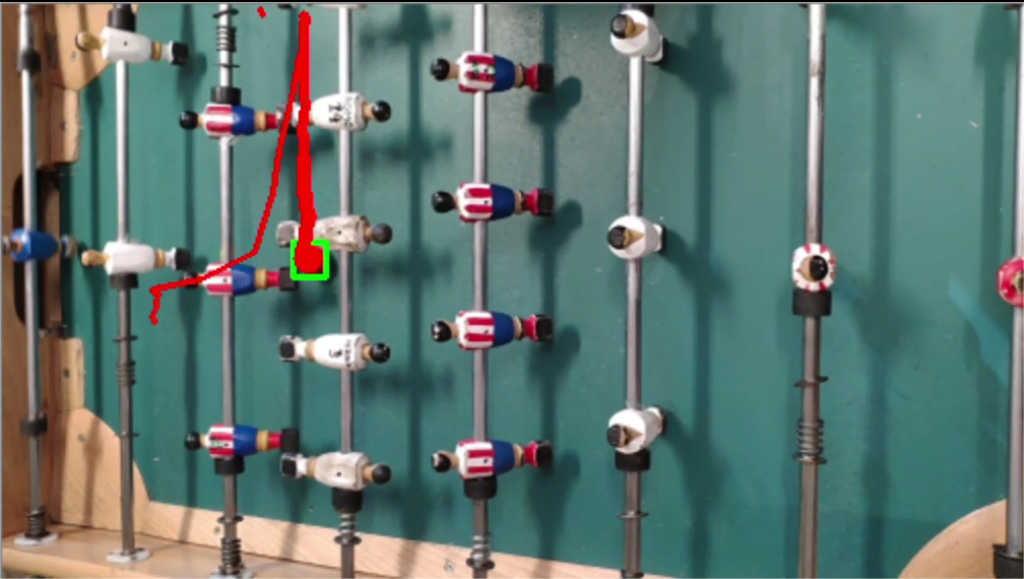
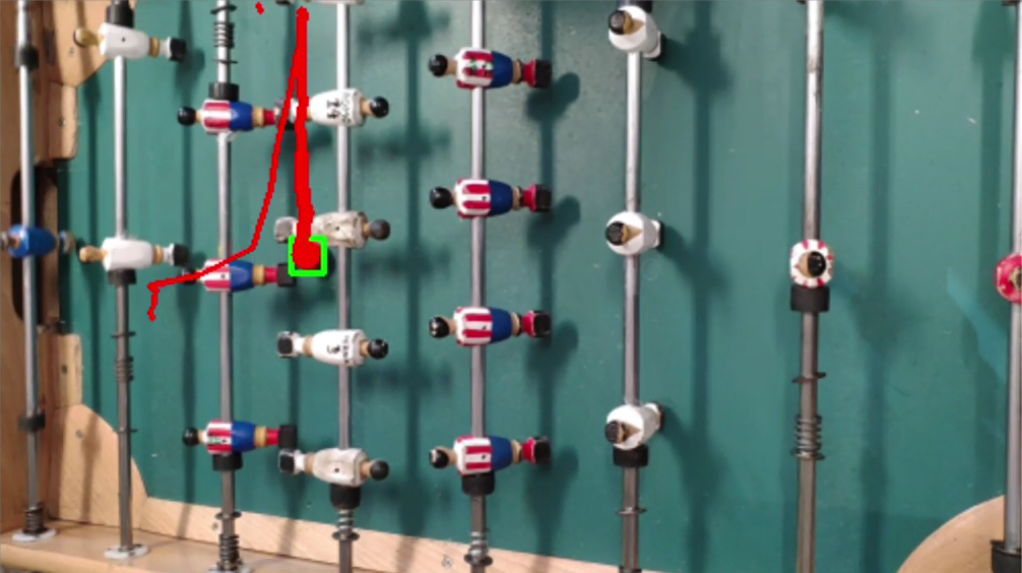
Entrada Fut openCV acabada

diff --git a/_posts/2018-10-13-FUTracker.md b/_posts/2018-10-13-FUTracker.md
@@ -11,5 +11,184 @@ image: /assets/img/posts/2018-10-13-FUTracker/2.png
 
 ---
 
-![Distance](/assets/img/posts/2018-10-13-FUTracker/3.jpg)
+The new academic course already began - and, with it, the habit of playing foosball for hours everyday.
 
+One day, I wondered whether it would be possible to *upgrade* our foosball: such a traditional game has remained exactly the same for years, so it would be cool to add it some new features. I first thought about adding some sensors to it, but ended up deciding that using some image recognition software would be the most versatile option. Moreover, I had never worked with any video processing software, so I saw in this project a good opportunity to learn something new.
+
+## The idea
+
+As a first objective, I tried to be able to locate the ball and draw its movement. This is a good starting point, since, once this is working, I will be able to detect the ball's speed and other statistics such as possession, passes, etc.
+
+The script I coded (available in [my GitHub](https://github.com/pepassaco/FUTracker) is dividing into three main parts:
+
+- **Color mask**: we take advantage of the fact that the ball is always the same color (and different from the player's one) for applying this first filter to the image.
+
+- **Morphological transformations**: once we have a binary image, we can use some morphological transformations in order to help identifying the ball. We start with a noisy image and we end up with one where it is possible to identify a night white rounded spot.
+
+- **Detection of shapes, centroid and plot of the data**: we detect the biggest shape, calculate it's centroid and determine that this is the position of the ball. Finally, we plot these results in the original video.
+
+![Fut-2](/assets/img/posts/2018-10-13-FUTracker/1.jpg)
+
+## The code
+
+The full version of the code can be found in my [GitHub](https://github.com/pepassaco/FUTracker). In order to improve the overall performance of the script and show the FPS on the screen, I followed the tutorials from this [website](https://www.pyimagesearch.com/2015/12/28/increasing-raspberry-pi-fps-with-python-and-opencv/). 
+
+First, we must include the necessary libraries:
+
+```python=
+from collections import deque
+from imutils.video import VideoStream
+from imutils.video import FileVideoStream
+from imutils.video import FPS
+import numpy as np
+import argparse
+import cv2
+import imutils
+import time
+```
+Then, we iniciate the argument parser which allows us to add arguments with options when calling the program from the console.
+
+``` python=
+ap = argparse.ArgumentParser()
+ap.add_argument("-v", "--video",
+	help="path to the (optional) video file")
+ap.add_argument("-b", "--buffer", type=int, default=64,
+	help="max buffer size")
+args = vars(ap.parse_args())
+```
+Afterwards, we choose the bounds for our color mask, the kernels for the morphological operations (see OpenCV's [documentation](https://www.tutorialspoint.com/opencv/opencv_morphological_operations.htm))and a deque where we will save the last positions of the ball. We also manage the different possible arguments and strar the FPS meter. 
+
+``` python=
+colorLower = (0, 140, 170)
+colorUpper = (80, 255, 255)
+
+kernel1 = np.ones((1,5),np.uint8)
+kernel2 = np.ones((5,5),np.uint8)
+kernel3 = np.ones((3,3),np.uint8)
+
+
+pts = deque(maxlen=args["buffer"])
+
+
+if not args.get("video", False):
+	vs = VideoStream(src=1).start()
+
+else:
+	vs = cv2.VideoCapture(args["video"])
+
+    
+time.sleep(1.0)
+
+fps = FPS().start()
+```
+This point is where our loop starts: evey iteration will be processed on a different frame of the video.
+
+The first step here is then grabbing the corresponding frame.
+
+```python=
+while True:
+
+	frame = vs.read()
+	frame = frame[1] if args.get("video", False) else frame
+
+	if frame is None:
+		break
+```
+Then, we will resize it to reduce the processing needed, blur it to remove noise and apply the color mask.
+
+```python=
+	frame = imutils.resize(frame, width=500)
+	
+	blurred = cv2.GaussianBlur(frame, (3,3), 0)
+	hsv = cv2.cvtColor(blurred, cv2.COLOR_BGR2HSV)
+
+	mask3 = cv2.inRange(hsv, colorLower, colorUpper)
+```
+Before trying to detect the ball, we may use some morphological transformations in order to facilitate this process.
+```python=
+	mask2 = cv2.morphologyEx(mask3, cv2.MORPH_OPEN, kernel3)
+	
+	mask1 = cv2.dilate(mask2, kernel2, iterations=1)
+	
+	mask = cv2.morphologyEx(mask1, cv2.MORPH_OPEN, kernel3)
+	mask = cv2.morphologyEx(mask1, cv2.MORPH_CLOSE, kernel3)
+```
+Once we have a clear binary image without a lot of noise, we can proceed to find the ball. For that, we first find all the possible contours. If we can detect more than one, we choose the one whose dimmensions can match the ones of the ball. Finally, we calculate its centroid, which will become our data about the position of the ball, and draw a rectangle around the ball.
+
+```python=
+cnts = cv2.findContours(mask.copy(), cv2.RETR_EXTERNAL, cv2.CHAIN_APPROX_SIMPLE)
+cnts = imutils.grab_contours(cnts)
+center = None
+
+if len(cnts) > 0:
+
+    c = max(cnts, key=cv2.contourArea)
+
+    x,y,w,h = cv2.boundingRect(c) 
+
+    M = cv2.moments(c)
+    center = (int(M["m10"] / M["m00"]), int(M["m01"] / M["m00"]))
+
+        
+    if (w > 9 and h > 9 and 33  > w and 33  > h):
+        cv2.rectangle(frame,(x,y),(x+w,y+h),(0,255,0),2)
+        cv2.circle(frame, center, 5, (0, 0, 255), -1)
+```
+
+For drawing the trail of the trajectory, we use the pts deque we defined before. For that, we first append our new sample to the deque, and then choose the thickness of each point based on their position in the list. They get plotted by using a *cv2.line* sentence. For more information on this, refer to this [site](https://www.pyimagesearch.com/2015/09/14/ball-tracking-with-opencv/).
+```python=
+pts.appendleft(center)
+
+for i in range(1, len(pts)):
+
+    if pts[i - 1] is None or pts[i] is None:
+        continue
+        
+    thickness = int(np.sqrt(args["buffer"] / float(i + 1)) * 2.5)
+    cv2.line(frame, pts[i - 1], pts[i], (0, 0, 255), thickness)
+ 
+```
+Once we have our image ready to be shown, we update the FPS meter and plot the desired frames
+
+```python=
+fps.update()
+fps.stop()
+
+info = [
+    ("FPS", "{:.2f}".format(fps.fps())),
+]
+
+
+cv2.imshow("Original", frame)
+#cv2.imshow("Blur", blurred)
+#cv2.imshow("Filtrado", mask3)
+#cv2.imshow("Erosionado", mask2)
+#cv2.imshow("Dilatado", mask1)
+cv2.imshow("Rellenado", mask)
+````
+
+Finally, we check for a key pess of the key *q*, which would stop the program.
+
+```python=
+key = cv2.waitKey(1) & 0xFF
+if key == ord("q"):
+		break
+```
+Befor ending the script, we must handle the exits of the main loop. Since this will only happen when the either the video has finished or the user wants to quit the program, we just have to close the video stream and close the open windows.
+```python=
+if not args.get("video", False):
+    vs.stop()
+else:
+    vs.release()
+
+cv2.destroyAllWindows()
+```
+## Results
+
+It works!
+
+![Fut-1](/assets/img/posts/2018-10-13-FUTracker/3.jpg)
+
+Two of the biggest problems of trying to follow a foosball ball are its extreme speed (it can reach tens of Km/h) and the fact that, when one player has the possession, either the foosball player or the bar which joins them together can cover the ball. While this program suffers a bit with high speed shoots due to the low number of maximum FPSs achievable, it responds incredibly well to situations where the ball is partially or even almost completely cover.
+
+If you enjoyed this project, I encourage you to try the examples that you can find on my [GitHub](https://github.com/pepassaco/FUTracker) or try it with your personal foosball.
